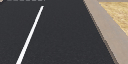
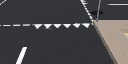
Aplicando a detecção do raio da placa e distância apenas se o haarcascade considerar aquilo como placa Pare.

diff --git a/main.py b/main.py
@@ -100,6 +100,8 @@ centroX = int(horizontal/2)
 rad = 0
 angle = 0
 
+raio = 0
+
 
 # Iniciando tela do Pygame
 surface = pygame.display.set_mode((horizontal, vertical))
@@ -214,6 +216,10 @@ def detectando_placa_haarcascade(image2):
     # Nas faces dectadas, desenhar um retângulo e escrever Humano
     for (x, y, l, a) in placas:
         quadrado = x, y, l, a
+        #x = int(x * 0.95)
+        #y = int(y * 0.95)
+        #l = int(l * 1.3)
+        #a = int(a * 1.3)
         cv2.rectangle(image2, (x, y), (x + l, y + a), (0, 0, 255), 2)
         cv2.putText(image2, 'Placa', (x, y + (a + 30)), fonte, 1, (0, 255, 255))
         return quadrado
@@ -222,6 +228,7 @@ teste = True
 speed = 1
 
 def detectandoCirculo(image2):
+    global radius, y, x
     blurred = cv2.GaussianBlur(image2, (11, 11), 0)
     # hsv = cv2.cvtColor(blurred, cv2.COLOR_BGR2HSV)
     # construct a mask for the color "green", then perform
@@ -245,16 +252,12 @@ def detectandoCirculo(image2):
         ((x, y), radius) = cv2.minEnclosingCircle(c)
         M = cv2.moments(c)
         center = (int(M["m10"] / M["m00"]), int(M["m01"] / M["m00"]))
+        raio = radius
         # only proceed if the radius meets a minimum size
         # print(f"Raio: {radius}")
-        if radius > 66:
+        if radius > 40:
             speed = 0
-        if radius > 10:
-            # draw the circle and centroid on the frame,
-            # then update the list of tracked points
-            cv2.circle(image2, (int(x), int(y)), int(radius),
-                       (0, 255, 255), 2)
-            cv2.circle(image2, center, 5, (0, 0, 255), -1)
+
     # update the points queue
     pts.appendleft(center)
     # loop over the set of tracked points
@@ -267,6 +270,8 @@ def detectandoCirculo(image2):
         # draw the connecting lines
         thickness = int(np.sqrt(args["buffer"] / float(i + 1)) * 2.5)
         cv2.line(image2, pts[i - 1], pts[i], (0, 0, 255), thickness)
+
+    return x, y, radius, center
 
 while robot.step(TIME_STEP) != -1:
 
@@ -287,10 +292,37 @@ while robot.step(TIME_STEP) != -1:
     frame, distancia = detectando_linhas_metodo2()
     cv2.imshow("camera1", frame)
 
-    detectandoCirculo(image2)
-    cv2.imshow("Frame", image2)
+    x, y, radius, center = detectandoCirculo(image2)
+    #print(f"X, Y: ({x}, {y}) Raio: {radius}")
+    r = int(radius * 0.3)
+    x = int(x)
+    y = int(y)
+    coordenada1 = [x - r, y - r]
+    coordenada2 = [x + r, y + r]
+    #print(f"Coordenada1: {coordenada1}, coordenada2: {coordenada2}")
+    #cv2.rectangle(image2, (x, y), (x + l, y + a), (0, 0, 255), 2)
+    cv2.rectangle(image2, (x - r, y - r), (x + r, y + r), (0, 0, 255), 2)
+
 
     quadrado = detectando_placa_haarcascade(image3)
+    try:
+        xq, yq, l, a = quadrado
+        #print(f"Coordenada1C: {x - r, y - r}, coordenada2: {x + r, y + r}")
+        #print(f"Coordenada1Q: [{xq}, {yq}], coordenada2: [{xq+l}, {yq+a}]")
+
+        if x-r > xq and y-r > yq and x+r < xq+l and y+r < yq+a:
+            if radius > 10:
+                print(radius)
+                # draw the circle and centroid on the frame,
+                # then update the list of tracked points
+                cv2.circle(image2, (int(x), int(y)), int(radius),
+                           (0, 255, 255), 2)
+                cv2.circle(image2, center, 5, (0, 0, 255), -1)
+            if radius > 60:
+                speed = 0
+    except:
+        pass
+    cv2.imshow("Frame", image2)
     cv2.imshow("placa", image3)
 
     if distancia > 0:
